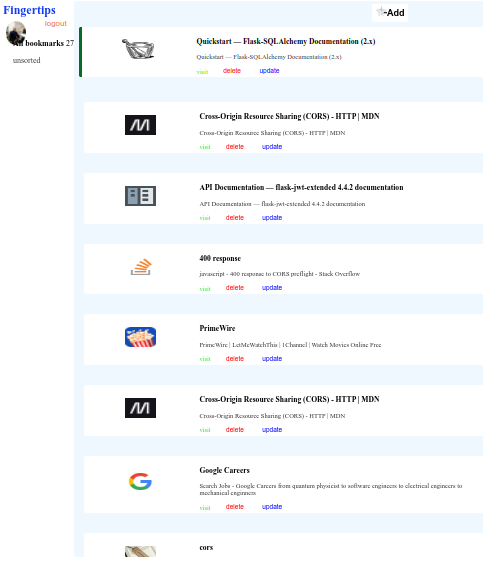
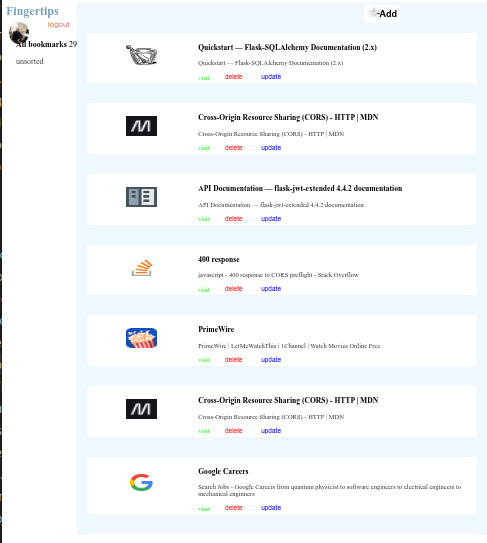
update requirements.txt

diff --git a/frontend/src/views/myHome.vue b/frontend/src/views/myHome.vue
@@ -151,7 +151,7 @@ export default{
             title: "",
             url: "",
             desc: "",
-            category: "",
+            category: "unsorted",
             icon: "",
 
             myCategories: [],
@@ -332,13 +332,23 @@ export default{
             if (!this.loggedIn) {
                 this.$router.push('/login');
             }
-            
+            const response1 = await fetch("http://127.0.0.1:5000/api/v1/bookmarks/getBookmarkDetails", {
+                method: 'POST',
+                mode: 'cors',
+                headers: {
+                    "content-Type": "application/json",
+                    "Authorization": "Bearer "+this.token
+                },
+                body: JSON.stringify({'url':this.url}),
+            });
+            const resp = await response1.json()
+
             const bookmark = {
-                "title":this.title,
+                "title":resp.title,
                 "url": this.url,
                 "body": this.desc,
                 "category": this.category,
-                "icon": this.icon
+                "icon": resp.icon
             };
 
             const response = await fetch("http://127.0.0.1:5000/api/v1/bookmarks/new", {
@@ -398,6 +408,9 @@ export default{
     margin-top: auto;
 
 }
+.top .logout button:hover{
+    transform: translate(-4px, -4px);
+}
 
 #avatar {
   vertical-align: middle;
@@ -437,7 +450,8 @@ p{
     border-radius: 5px;
     background-color: aliceblue;
     z-index: 1;
-    height:95%;
+    height:98%;
+    width:85%;
     top:5px;
     
 }
@@ -536,7 +550,7 @@ p{
     background-color: #fff;
     border-radius: 5px;
     max-height: min-content;
-    overflow-y: scroll;
+    
 }
 .nobooks{
     width: 100%;
@@ -603,6 +617,7 @@ p{
     display:block;
     background-color: rgb(198, 215, 230);
     z-index: 99;
+    overflow-y: scroll;
    
 }
 .container .main .web .options{

diff --git a/frontend/src/views/myRoot.vue b/frontend/src/views/myRoot.vue
@@ -57,22 +57,23 @@ export default{
     height: 100%;    
 }
 .head .logo .logo-img{
-    height: 100%;
+    margin-left: 0;
+    object-fit: contain;
     
 }
 .head .logo .logo-img img{
   object-fit: contain;
-  vertical-align: middle;  
-  border-radius: 50%;
-  object-fit: contain;
-  height:50%;
-  width: 50%;
+  vertical-align: middle;
+  margin-top: -20%;  
+  margin-left: -10%;
+  height:150px;
+  width: 150px;
 }
 .head .logo .name{
     color:rgb(43, 43, 109);
     font-size: 30px;
-    margin-left: 55%;
-    margin-top: -38%;
+    margin-left: 75%;
+    margin-top: -58%;
 }
 .head button{
     margin-top: .2%;
@@ -93,7 +94,7 @@ export default{
     flex:2;
     height: 100%;
     margin-left: 5%;
-    margin-top: 10%;
+    margin-top: 1%;
    
 }
 .main .left p{
@@ -107,7 +108,7 @@ export default{
 }
 .main .left button{
     margin-top: 20%;
-    margin-left: 5%;
+    margin-left: 15%;
     height: 50px;
     width: 150px;
     background: rgb(5, 3, 29);
@@ -116,16 +117,16 @@ export default{
 }
 .main .right{
     flex: 1;
-    margin-top: 2%;  
+    margin-top: 1%;  
     background-color: rgba(94, 10, 10, 0);
 }
 
 .main .right img{
-    height: 100%;    
+    height: 90%;    
     width: 98%;
     object-fit: contain;
     z-index: 5;
     border-radius: 5%;
-    border: 1px  bold black;
+    border: 1px  bold rgb(0, 0, 0);
 }
 </style>

diff --git a/frontend/src/components/myHeader.vue b/frontend/src/components/myHeader.vue
@@ -1,7 +1,7 @@
 <template>
     <div class="header">
         <h1>FingerTips</h1>
-        <h2>all my bookmarks at my fingertips</h2>
+        <h2>...all your bookmarks at your fingertips</h2>
         <h1 id="tittle">{{text}}</h1>
     </div>
     
